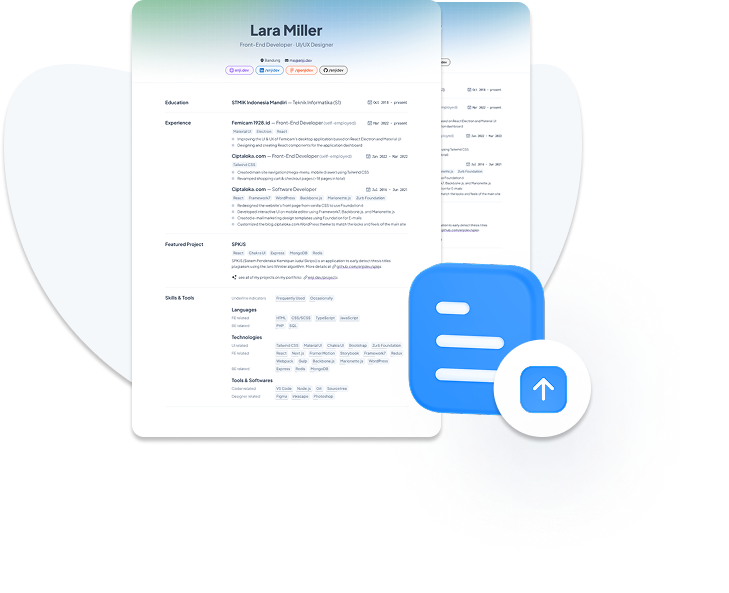
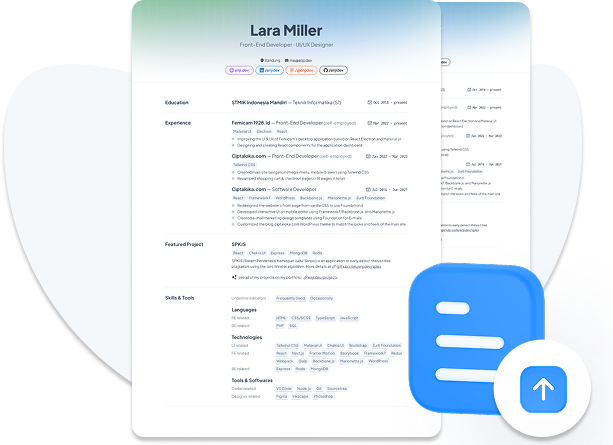
Refactor code structure for improved readability and maintainability

diff --git a/src/components/Home-section/HeroSection.jsx b/src/components/Home-section/HeroSection.jsx
@@ -62,9 +62,10 @@
 
 import React from "react";
 import Button from "../../UI/Button.jsx";
-import heroImage from "../../assets/banner-right-side-2.png"; // your resume preview
+import heroImage from "../../assets/landing-hero.png"; // your resume preview
 import background from "../../assets/banner-back.jpg"; // your background image
 import Navbar from "../../UI/Navbar.jsx";
+import group from "../../assets/Group.png";
 
 export default function HeroSection() {
   return (
@@ -77,7 +78,7 @@ export default function HeroSection() {
       {/* Navbar */}
       <Navbar />
 
-      <div className="max-w-8xl mx-auto px-4 sm:px-6 lg:px-8 flex flex-col md:flex-row items-center justify-between gap-10">
+      <div className="max-w-8xl mx-auto px-4 sm:px-6 lg:px-8 py-16 flex flex-col md:flex-row items-center justify-between gap-10">
         {/* LEFT CONTENT */}
         <div className="md:w-1/2 h-full flex items-center">
           <div className="space-y-6 text-center md:text-left">
@@ -93,26 +94,26 @@ export default function HeroSection() {
             </p>
 
             {/* Buttons */}
-            <div className="flex flex-col sm:flex-row gap-4 justify-center md:justify-start">
-              <Button variant="success" size="lg">
+            <div className="flex flex-col sm:flex-row gap-4 justify-center md:justify-start py-8">
+              <Button variant="success" size="md">
                 Sign Up! It’s 100% Free!
               </Button>
-              <Button variant="primary" size="lg">
+              <Button variant="primary" size="md">
                 Build your Resume
               </Button>
             </div>
 
             {/* Trustpilot */}
             <div className="flex items-center gap-3 pt-4 justify-center md:justify-start">
-              <p className="text-sm font-medium text-black">Excellent</p>
+              <p className="text-[19px] font-medium text-black">Excellent</p>
               <img
-                src="https://upload.wikimedia.org/wikipedia/commons/thumb/3/34/Trustpilot_Logo.svg/2560px-Trustpilot_Logo.svg.png"
+                src={group}
                 alt="trustpilot"
-                className="h-5"
+                className="h-8"
               />
-              <p className="text-sm text-gray-600">
+              <p className="text-[19px] font-medium">
                 1,432 reviews on{" "}
-                <span className="text-green-600 font-semibold">Trustpilot</span>
+                <span className="text-green-600 text-[19px] font-medium">Trustpilot</span>
               </p>
             </div>
           </div>
@@ -123,7 +124,7 @@ export default function HeroSection() {
           <img
             src={heroImage}
             alt="resume preview"
-            className="relative z-20 rounded-lg shadow-xl max-w-full md:max-w-[90%]"
+            className="relative z-20 rounded-xl shadow-xl max-w-full md:max-w-[90%]"
           />
         </div>
       </div>

diff --git a/src/components/Home-section/Resume-Steps.jsx b/src/components/Home-section/Resume-Steps.jsx
@@ -1,4 +1,3 @@
-
 // Real images (update your paths if needed)
 import step1 from "../../assets/step-1.png";
 import step2 from "../../assets/step-2.png";
@@ -41,10 +40,10 @@ const steps = [
 
 export default function ResumeSteps() {
   return (
-    <section className="bg-white py-20 px-4 sm:px-6 lg:px-8">
-      <div className="max-w-7xl mx-auto">
+    <section className="bg-white py-20 ">
+      <div className=" mx-auto">
         {/* Section Header */}
-        <h2 className="text-2xl sm:text-3xl md:text-4xl font-bold text-center mb-16 text-black">
+        <h2 className="md:text-[50px] sm:text-3xl md:text-4xl font-bold text-center mb-16 text-black">
           Let Your <span className="text-primary">Resume Stand Ahead</span> Of{" "}
           <br />
           Competition With Our Robust AI
@@ -57,22 +56,22 @@ export default function ResumeSteps() {
             return (
               <div
                 key={step.number}
-                className={`flex flex-col md:flex-row items-center gap-5 md:gap-10 ${
-                  isEven ? "md:flex-row-reverse" : ""
+                className={`flex flex-col md:flex-row justify-center h-[500px] items-center gap-5 md:gap-10  ${
+                  isEven ? "md:flex-row-reverse  " : ""
                 }`}
               >
                 {/* Text Box */}
-                <div className="md:w-1/2 w-full">
-                  <div className="bg-[#F4F8FF] px-8 py-10 rounded-xl shadow-sm h-full w-full">
+                <div className="md:w-1/2 w-full bg-[#F4F8FF]">
+                  <div className=" md:pl-20 md:pr-8 py-10 rounded-sm shadow-sm h-full w-full ">
                     <div className="flex items-center mb-4">
-                      <div className="h-10 w-10 rounded-full bg-primary text-white flex items-center justify-center font-bold text-lg">
+                      <div className="h-24 w-24 rounded-full bg-primary text-white flex items-center justify-center font-bold text-5xl">
                         {step.number}
                       </div>
                     </div>
-                    <h3 className="text-xl sm:text-2xl font-semibold text-black mb-3">
+                    <h3 className="text-3xl sm:text-2xl font-semibold text-black mb-3">
                       {step.title}
                     </h3>
-                    <p className="text-base text-gray-600 leading-relaxed">
+                    <p className="text-xl text-gray-600 leading-relaxed w-full">
                       {step.desc}
                     </p>
                   </div>
@@ -83,7 +82,7 @@ export default function ResumeSteps() {
                   <img
                     src={step.image}
                     alt={`Step ${step.number}`}
-                    className="w-full max-w-[420px] md:max-w-[450px] h-[450px] object-contain"
+                    className="w-full h-[500px] object-contain"
                   />
                 </div>
               </div>

diff --git a/src/components/Home-section/VideoSection.jsx b/src/components/Home-section/VideoSection.jsx
@@ -4,10 +4,10 @@ import videoPreview from "../../assets/video-banner.png"; // replace with your a
 export default function AIResumeVideoSection() {
   return (
     <section className="bg-primary text-white px-4 sm:px-6 lg:px-8 py-20">
-      <h2 className="text-3xl md:text-4xl font-bold leading-tight text-center pb-20">
+      <h2 className="text-3xl md:text-5xl font-bold leading-tight text-center pb-20">
         How Our <span className="text-white">AI Resume</span> Works For You
       </h2>
-      <div className="max-w-8xl mx-auto flex flex-col md:flex-row items-center gap-12">
+      <div className="max-w-7xl mx-auto flex flex-col md:flex-row items-center md:gap-10">
         {/* LEFT TEXT */}
 
         <div className="md:w-1/2 space-y-6">
@@ -29,7 +29,7 @@ export default function AIResumeVideoSection() {
           <img
             src={videoPreview}
             alt="Video Preview"
-            className="md:w-[771px] md:h-[517px] rounded-xl shadow-xl"
+            className="w-full h-full rounded-xl shadow-xl"
           />
 
           {/* Play Button Overlay (optional) */}

diff --git a/src/UI/Footer.jsx b/src/UI/Footer.jsx
@@ -195,7 +195,7 @@ export default function Footer() {
           </h1>
 
           {/* Curved accent */}
-          <div className="absolute top-0 right-0 w-96 h-96 rounded-full bg-white bg-opacity-5 -translate-y-1/2 translate-x-1/2"></div>
+          {/* <div className="absolute top-0 right-0 w-96 h-96 rounded-full bg-white bg-opacity-5 -translate-y-1/2 translate-x-1/2"></div> */}
         </div>
 
         {/* Bottom */}

diff --git a/src/UI/Button.jsx b/src/UI/Button.jsx
@@ -41,9 +41,9 @@ export default function Button({
   ...props
 }) {
   const sizeClasses = {
-    sm: "px-4 py-1.5 text-sm",
-    md: "px-6 py-2 text-md", // default
-    lg: "px-8 py-3 text-lg",
+    sm: "px-4 py-1.5 text-[18px]",
+    md: "px-8 py-2 text-[21px] font-semibold", // default
+    lg: "px-8 py-3 text-[24px] font-semibold",
   };
 
   const variantClasses = {

diff --git a/src/UI/Navbar.jsx b/src/UI/Navbar.jsx
@@ -26,7 +26,7 @@ export default function Navbar() {
               <a
                 key={idx}
                 href="#"
-                className="text-lg font-medium text-black hover:text-primary"
+                className="text-[18px] font-semibold text-black hover:text-primary"
               >
                 {link}
               </a>
